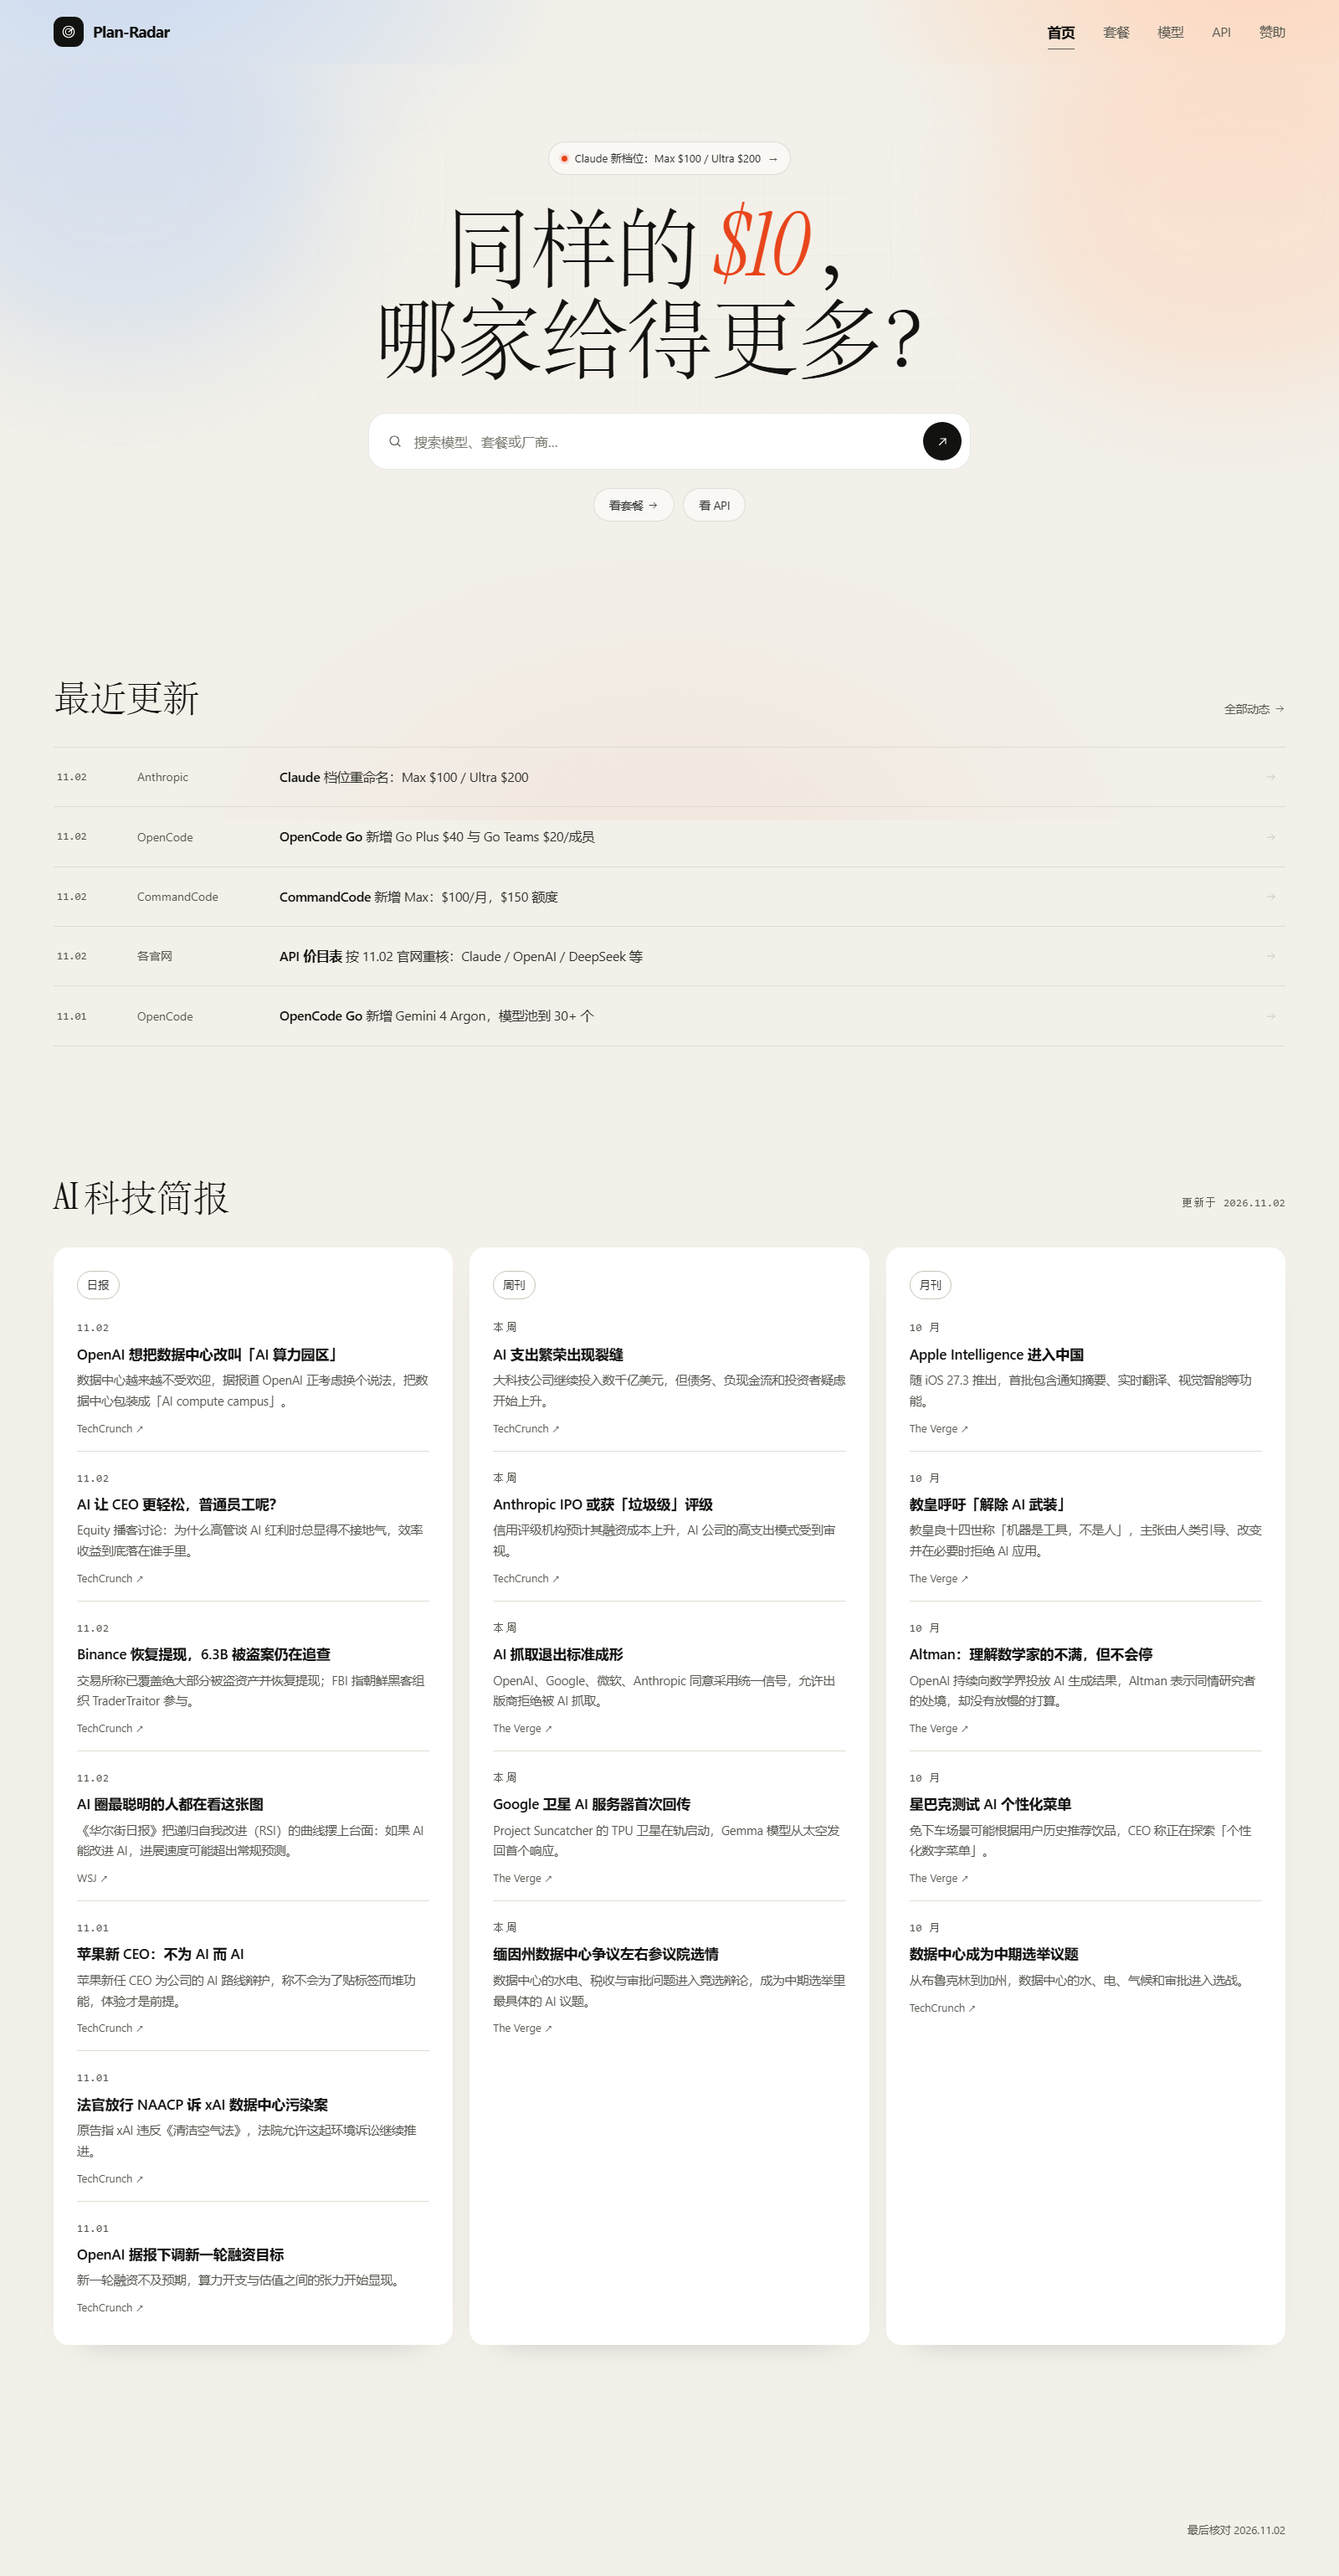
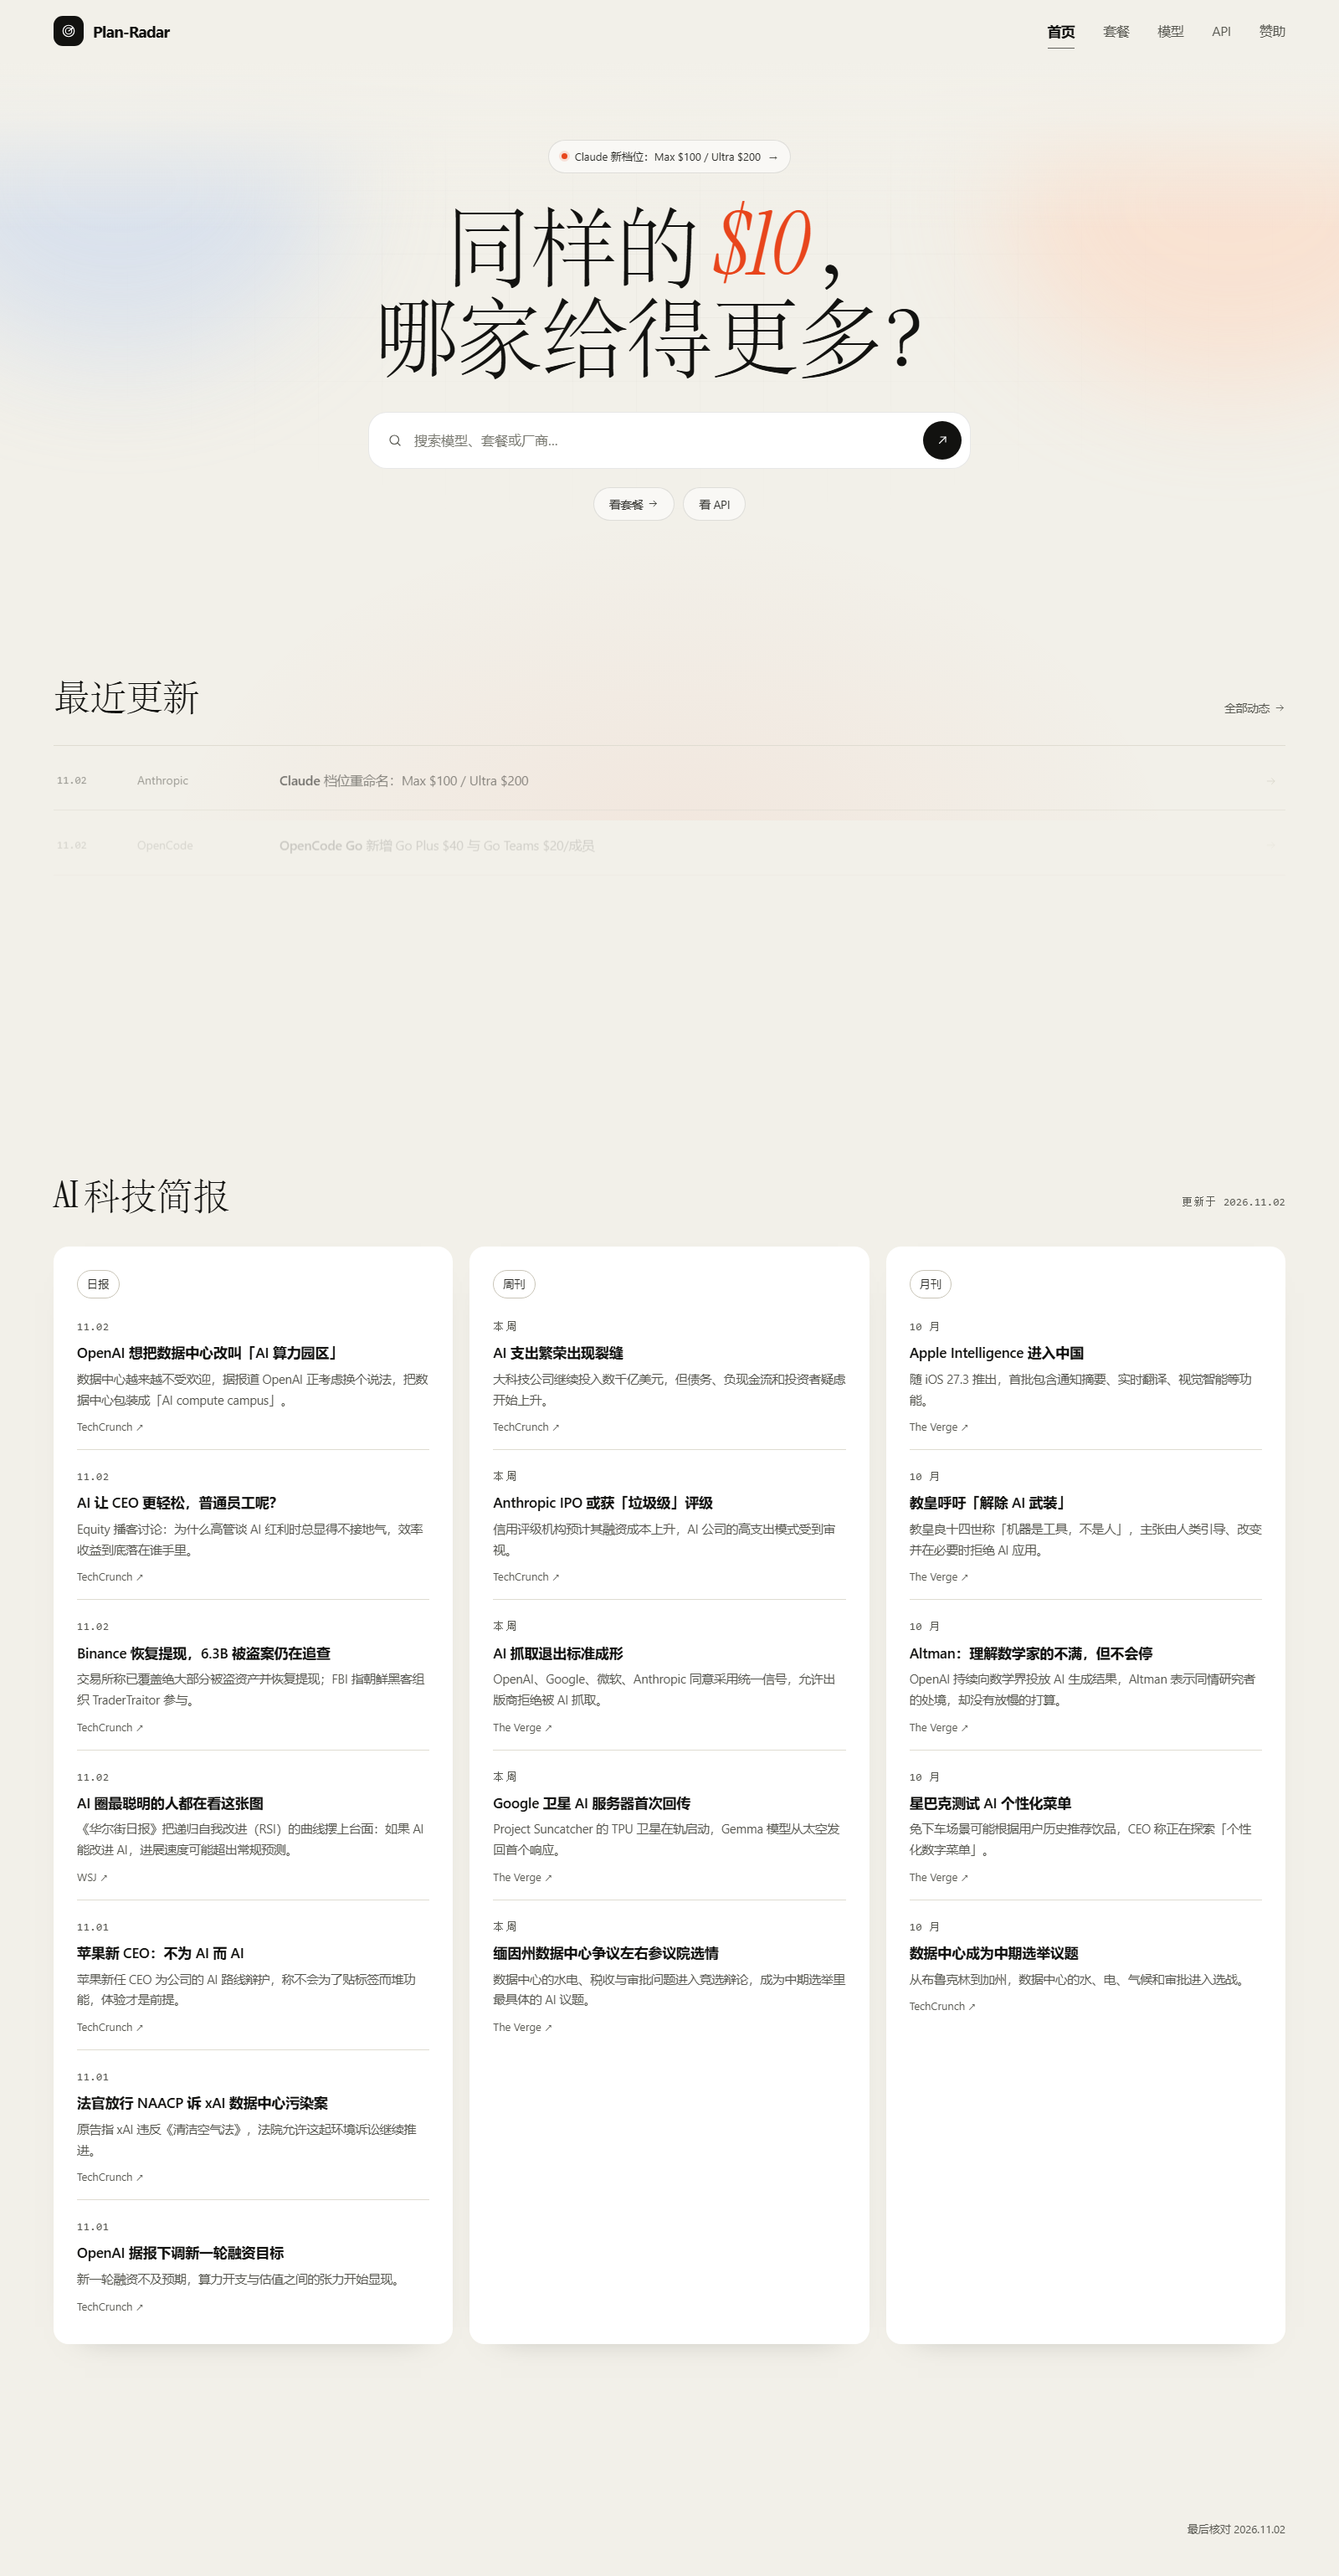
fix: keep header background neutral at top

diff --git a/app/globals.css b/app/globals.css
@@ -89,20 +89,13 @@ a[data-href] { cursor: pointer; }
   top: 0;
   z-index: 50;
   isolation: isolate;
-  background-color: transparent;
-  background-image: none;
+  background-color: var(--bg);
   border-bottom: 1px solid transparent;
   box-shadow: 0 18px 40px -40px rgba(21, 21, 19, 0);
-  transition: border-color 0.45s ease, box-shadow 0.45s ease;
+  transition: background-color 0.45s ease, border-color 0.45s ease,
+    box-shadow 0.45s ease;
 }
-body:has(.hero) .site-header {
-  background-image:
-    radial-gradient(860px 540px at 8% -6%, rgba(203, 218, 241, 0.75), transparent 64%),
-    radial-gradient(780px 500px at 94% -4%, rgba(255, 214, 188, 0.68), transparent 62%),
-    radial-gradient(900px 620px at 50% 106%, rgba(232, 69, 28, 0.06), transparent 68%);
-  background-repeat: no-repeat;
-  background-size: 100% 980px;
-}
+.site-header.is-scrolled { background-color: transparent; }
 .site-header::before {
   content: "";
   position: absolute;
@@ -355,6 +348,20 @@ body:has(.hero) {
   -webkit-mask-image: radial-gradient(ellipse 72% 66% at 50% 40%, #000 0%, transparent 74%);
   mask-image: radial-gradient(ellipse 72% 66% at 50% 40%, #000 0%, transparent 74%);
   opacity: 0.55;
+}
+.hero-top-fade {
+  position: absolute;
+  top: 0;
+  left: 0;
+  right: 0;
+  height: 200px;
+  background: linear-gradient(
+    180deg,
+    var(--bg) 0%,
+    rgba(242, 240, 233, 0.9) 32%,
+    rgba(242, 240, 233, 0) 100%
+  );
+  pointer-events: none;
 }
 .hero-bloom {
   position: absolute;

diff --git a/app/page.tsx b/app/page.tsx
@@ -12,6 +12,7 @@ export default function HomePage() {
           <span className="hero-grid-layer" />
           <span className="hero-bloom bloom-a" />
           <span className="hero-bloom bloom-b" />
+          <span className="hero-top-fade" />
         </div>
         <div className="wrap hero-centered-inner">
           <a className="hero-announce" href="/updates/">
